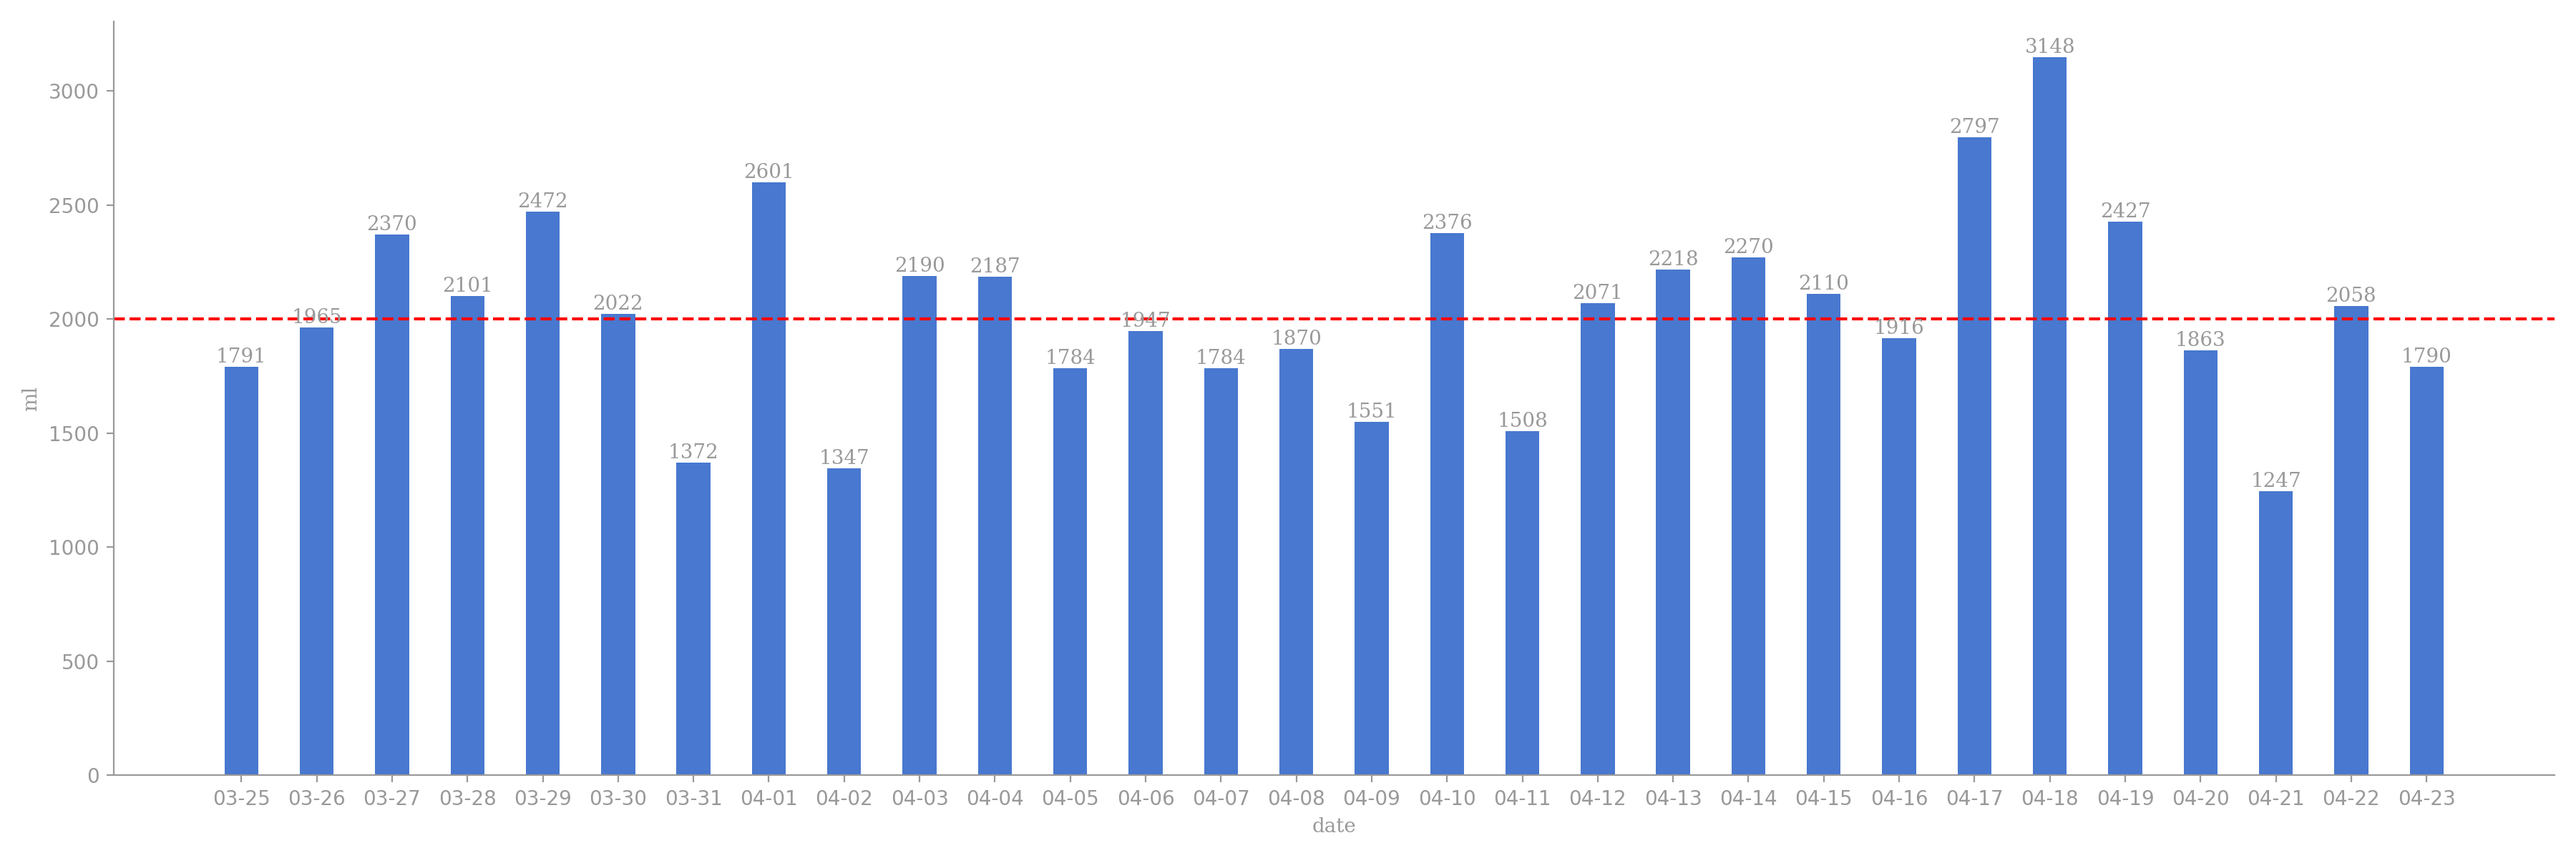
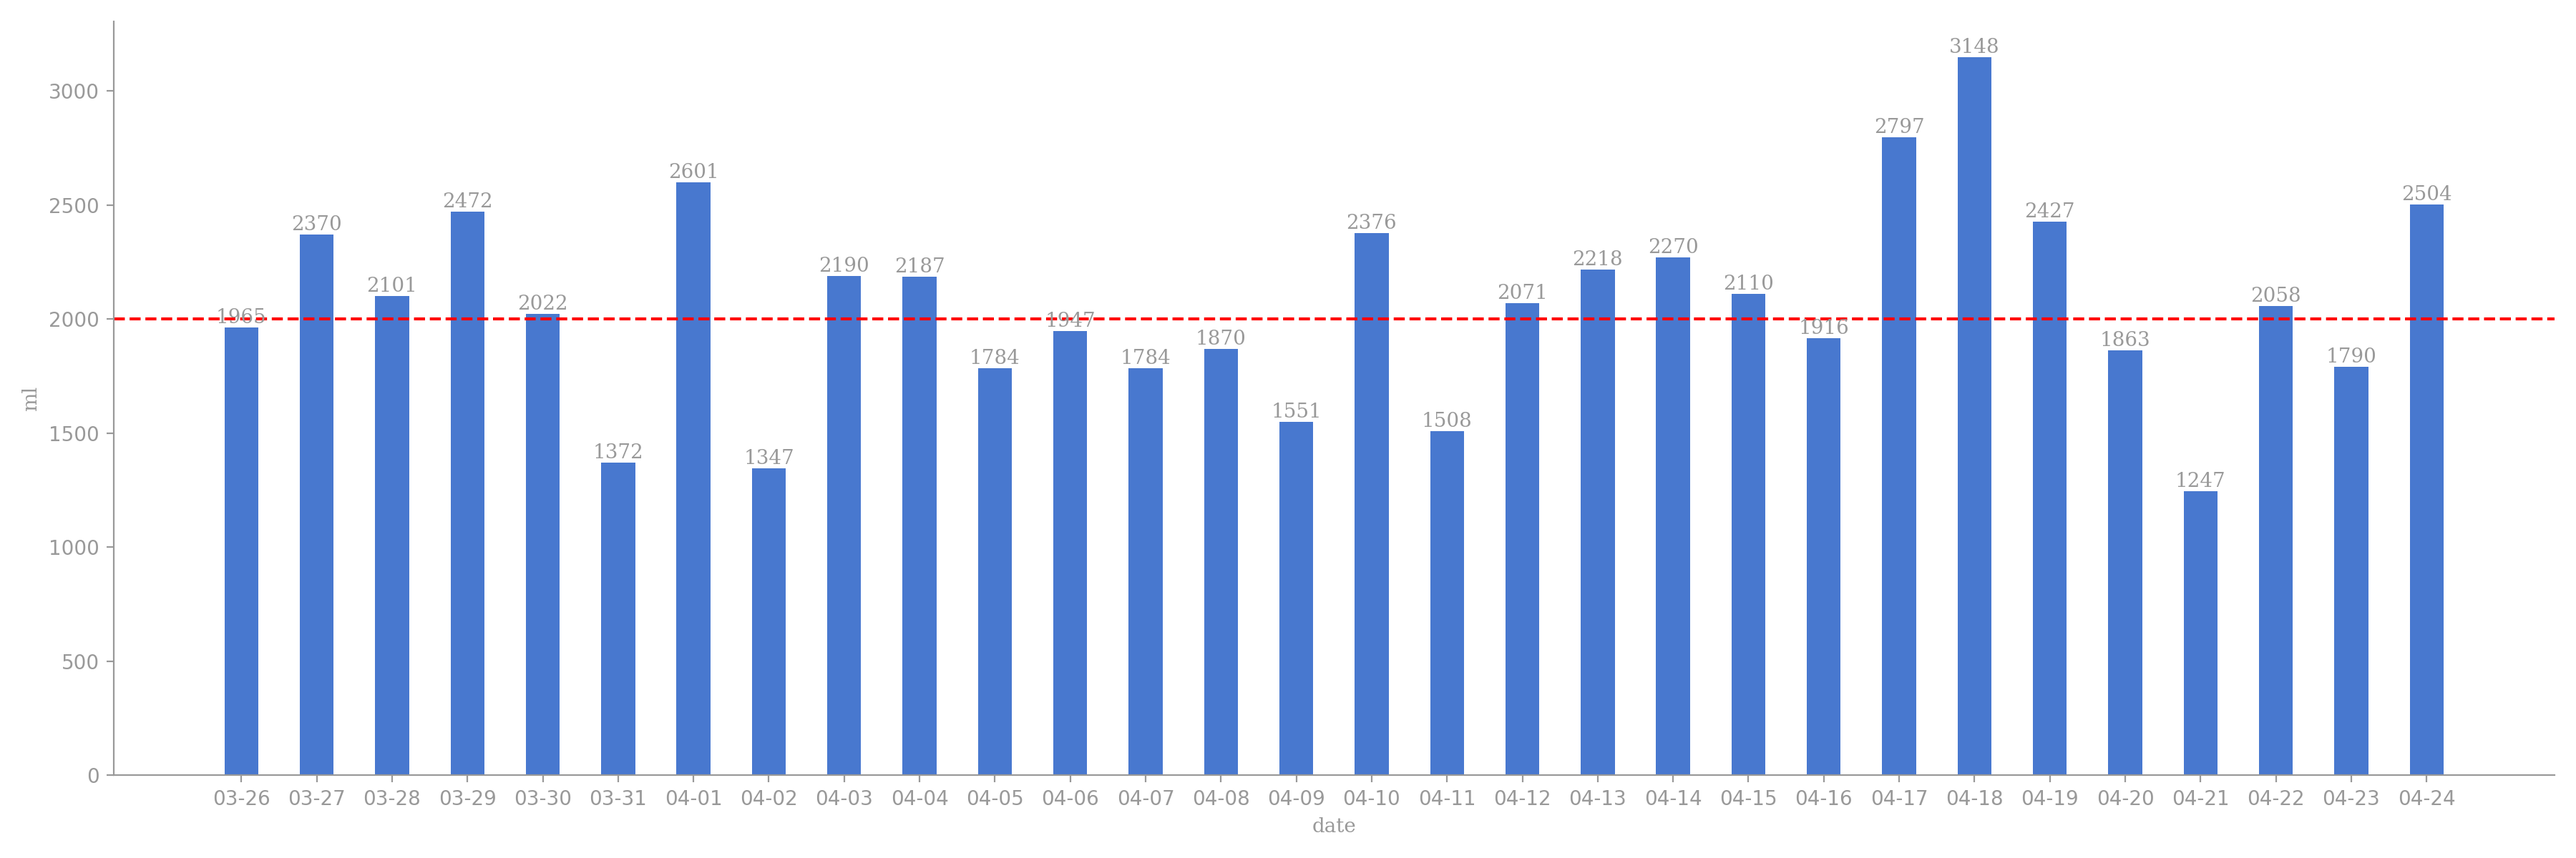
generated readme

Changed region(s): [[0.0622, 0.185, 0.3422, 0.555], [0.3733, 0.1542, 0.7467, 0.5242], [0.7467, 0.0308, 0.9644, 0.5858]]

diff --git a/README.md b/README.md
@@ -1,17 +1,3 @@
-# 今日饮水数据
-
-<div align=center>
-<img src="today.png" style="zoom: 100%;" />
-
-| 今日总饮水量 | 每小时平均饮水量 |
-| :----: | :----: |
-| 2504 | 250 |
-</div>
-
-| 日期 | 08:03:35 | 09:25:42 | 10:20:13 | 12:13:56 | 12:34:54 | 13:07:08 | 15:04:10 | 15:48:24 | 17:38:43 | 18:46:15 | 19:50:14 | 21:03:53 |
-| :----: | :----: | :----: | :----: | :----: | :----: | :----: | :----: | :----: | :----: | :----: | :----: | :----: |
-| 2025-04-24 | 420 | 226 | 202 | 200 | 92 | 167 | 73 | 110 | 202 | 200 | 212 | 400 |
-
 # 近30日饮水数据
 
 <div align=center>
@@ -19,8 +5,12 @@
 
 | 总饮水量 | 日均饮水量 |
 | :----: | :----: |
-| 61153 | 2038 |
+| 61866 | 2062 |
 </div>
+
+| 日期 | all | 08:03:35 | 09:25:42 | 10:20:13 | 12:13:56 | 12:34:54 | 13:07:08 | 15:04:10 | 15:48:24 | 17:38:43 | 18:46:15 | 19:50:14 | 21:03:53 |
+| :----: | :----: | :----: | :----: | :----: | :----: | :----: | :----: | :----: | :----: | :----: | :----: | :----: | :----: |
+| 2025-04-24 | 2504 | 420 | 226 | 202 | 200 | 92 | 167 | 73 | 110 | 202 | 200 | 212 | 400 |
 
 | 日期 | all | 03:56:12 | 09:22:24 | 12:20:54 | 13:39:18 | 18:11:52 | 19:26:30 | 21:15:33 | 21:57:14 | 22:40:53 | 23:18:00 | 23:43:18 |
 | :----: | :----: | :----: | :----: | :----: | :----: | :----: | :----: | :----: | :----: | :----: | :----: | :----: |
@@ -141,8 +131,4 @@
 | 日期 | all | 00:12:16 | 07:56:25 | 08:17:08 | 10:13:44 | 12:18:14 | 13:05:03 | 17:13:05 | 18:22:26 | 18:58:57 | 21:24:30 | 22:34:28 | 23:33:08 |
 | :----: | :----: | :----: | :----: | :----: | :----: | :----: | :----: | :----: | :----: | :----: | :----: | :----: | :----: |
 | 2025-03-25 | 1791 | 104 | 64 | 420 | 119 | 200 | 119 | 166 | 89 | 67 | 300 | 87 | 56 |
-
-| 日期 | all | 00:11:02 | 00:16:33 | 07:59:32 | 09:03:37 | 10:26:11 | 12:16:23 | 13:04:07 | 14:50:40 | 15:16:31 | 17:05:17 | 17:49:23 | 19:40:23 | 21:25:12 | 21:41:28 |
-| :----: | :----: | :----: | :----: | :----: | :----: | :----: | :----: | :----: | :----: | :----: | :----: | :----: | :----: | :----: | :----: |
-| 2025-03-24 | 1795 | 89 | 76 | 149 | 420 | 63 | 89 | 104 | 149 | 89 | 104 | 78 | 96 | 200 | 89 |
 
